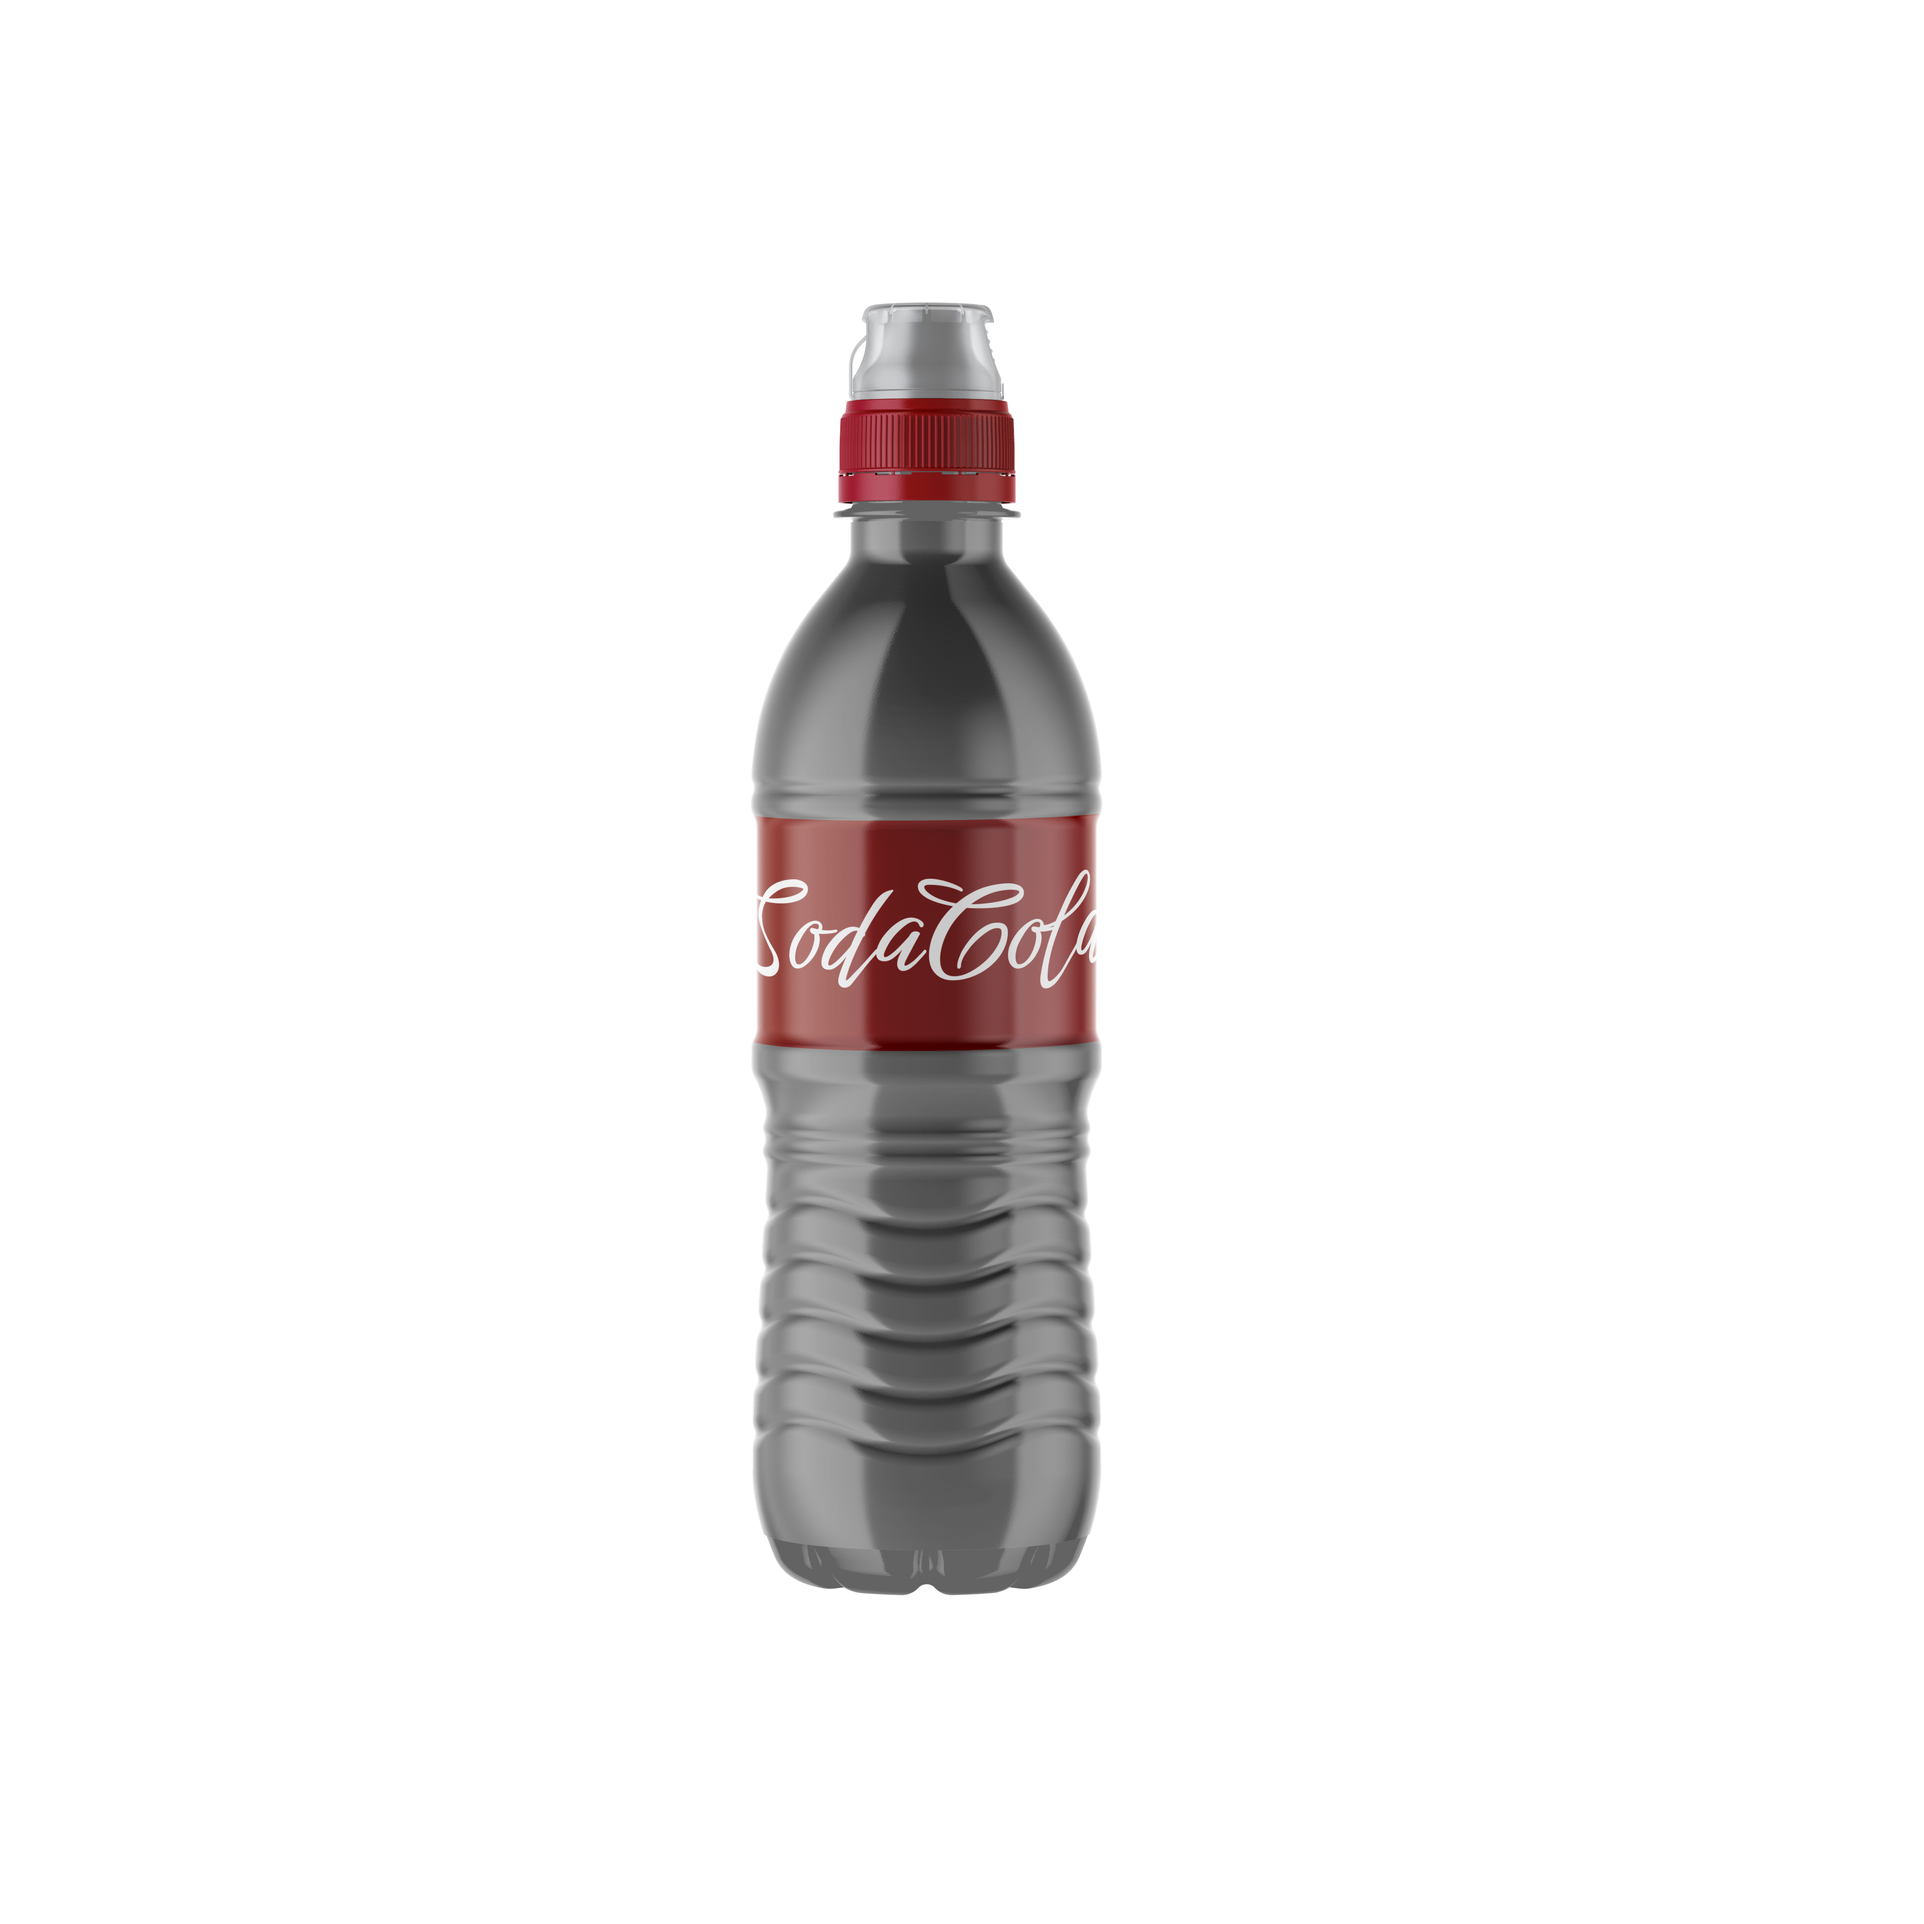
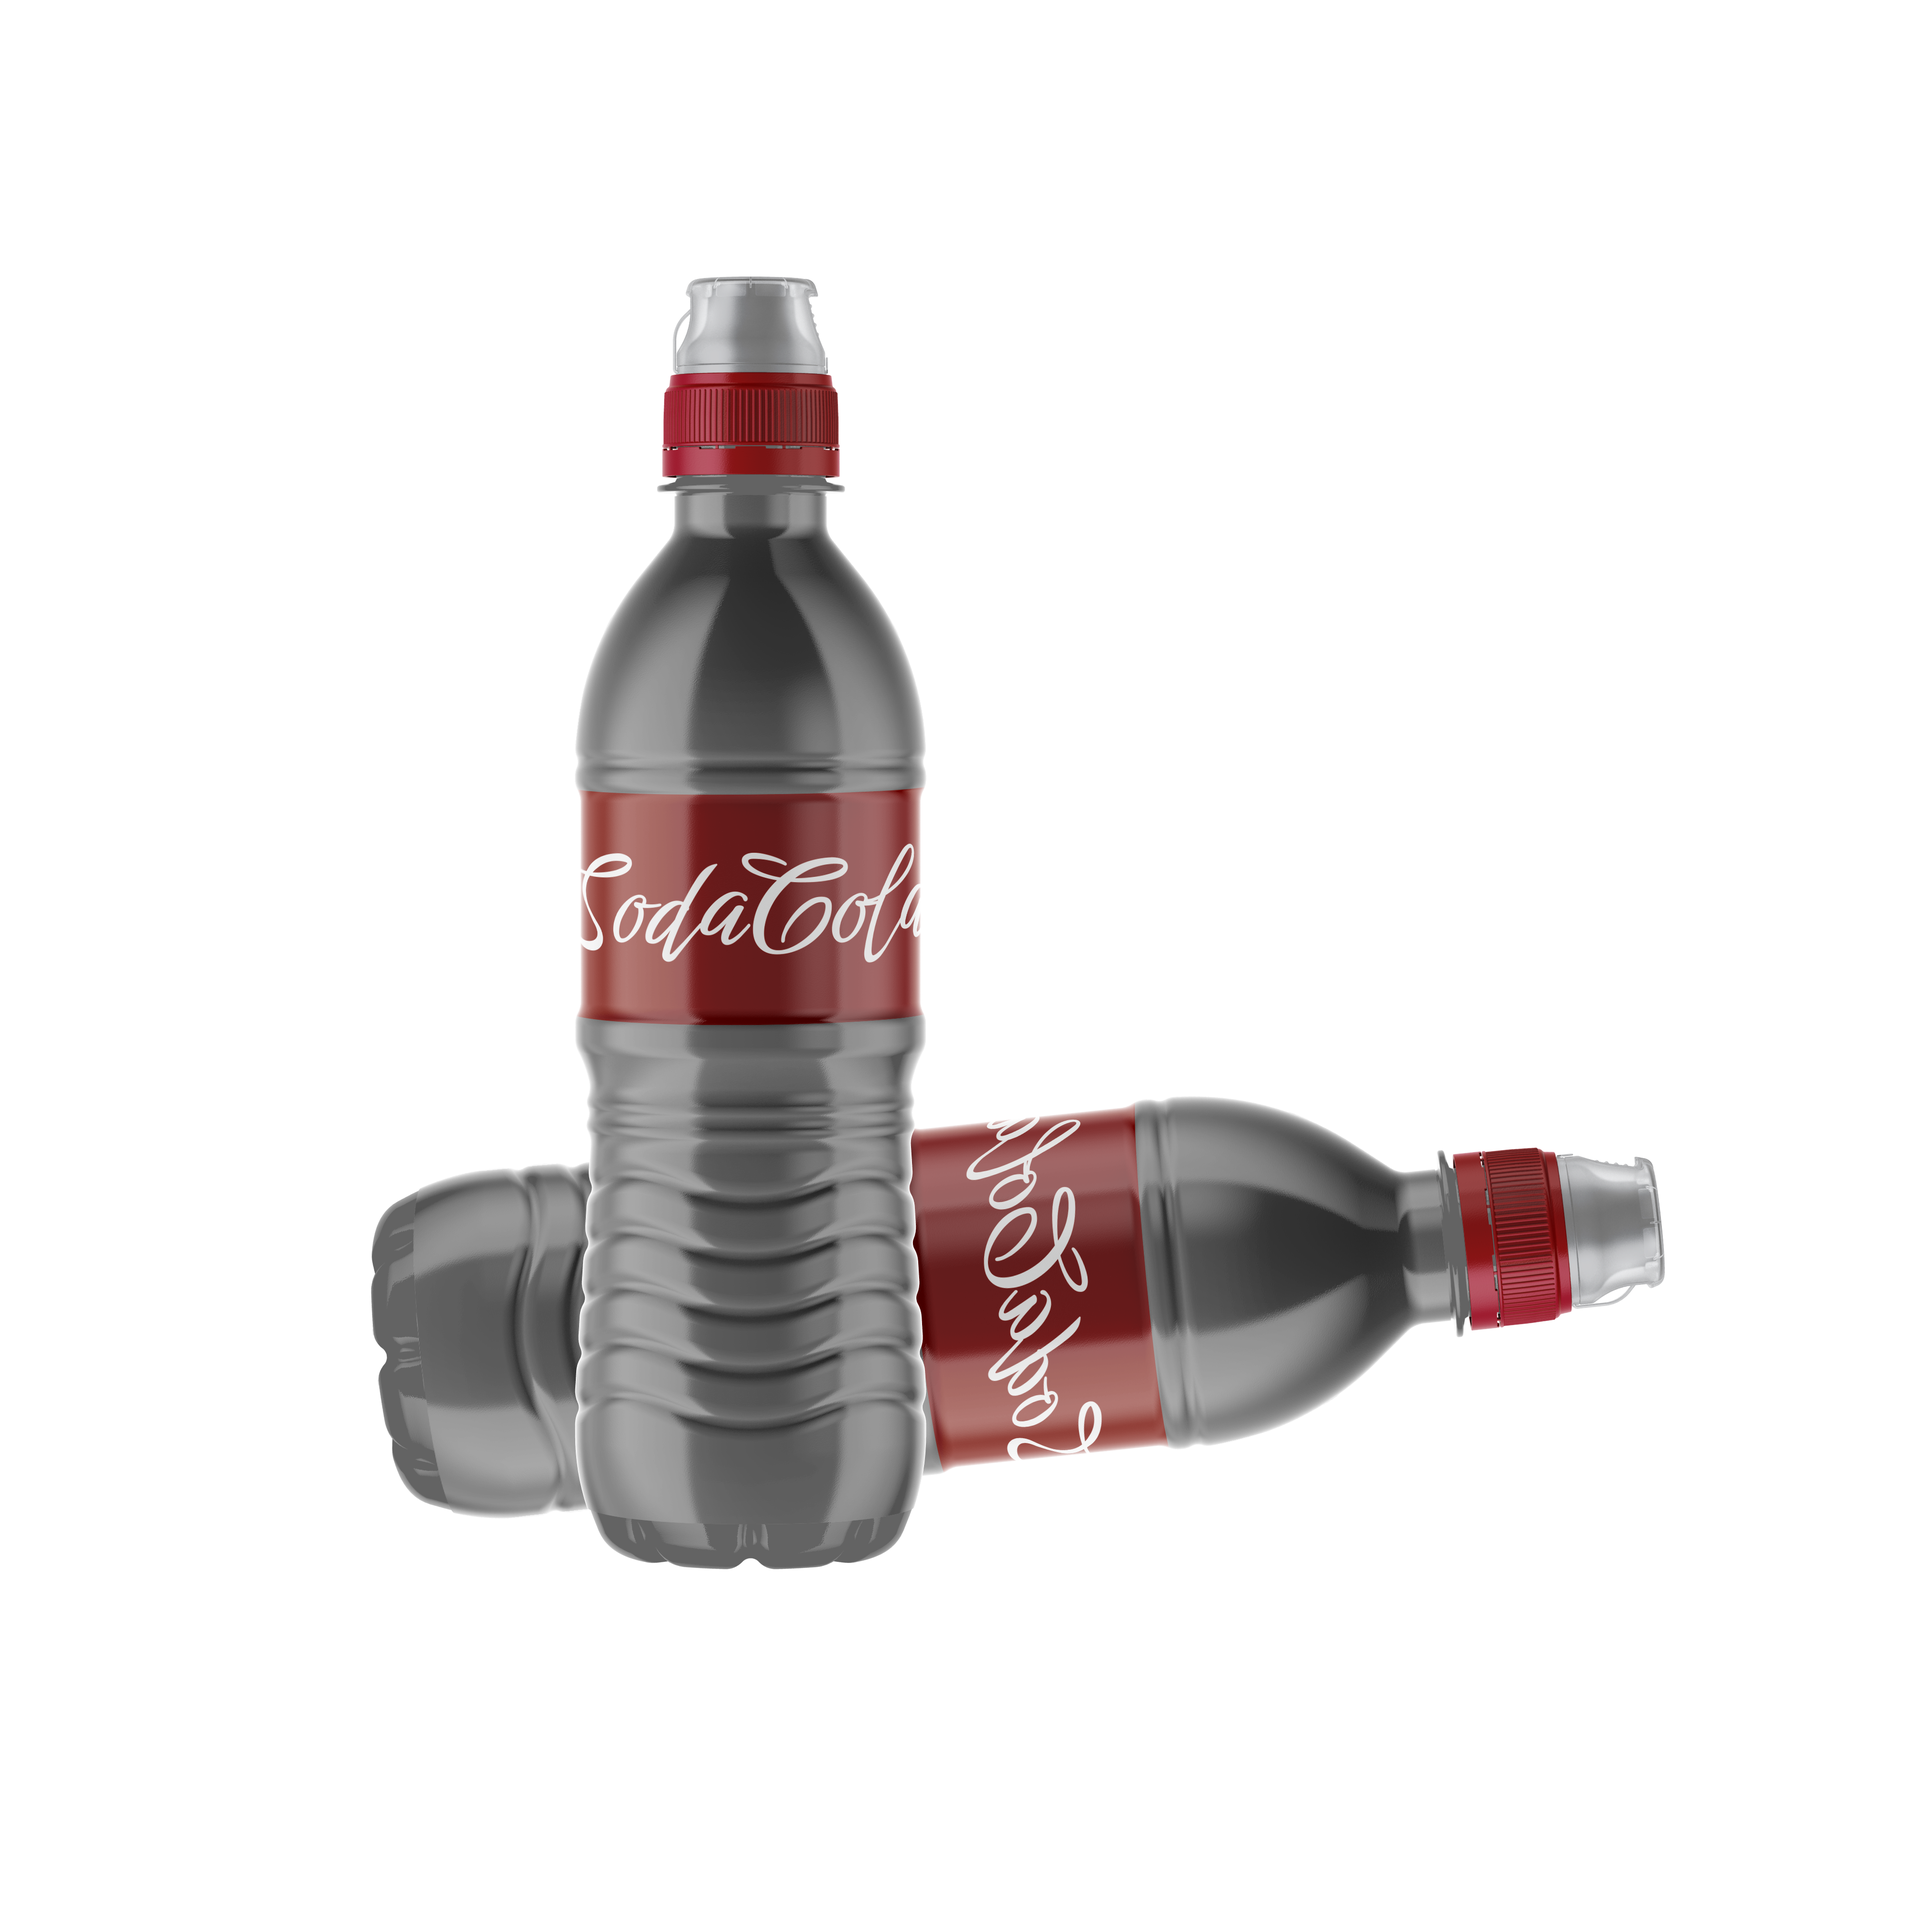
implemented imgs in productDisplay

Changed region(s): [[0.1875, 0.125, 0.875, 0.8438]]

diff --git a/src/components/productDisplayItem.vue b/src/components/productDisplayItem.vue
@@ -1,5 +1,10 @@
 <template>
   <div class="item">
+    <img
+      :src="getImgPath()"
+      :alt="name"
+      :class="{ right: isOdd(), left: !isOdd() }"
+    />
     <div class="info" :class="{ odd: isOdd() }">
       <div class="qntbox">
         <div class="qnt">
@@ -39,14 +44,18 @@ export default {
     isOdd: function() {
       return this.id % 2 !== 0;
     },
+    getImgPath: function() {
+      return require("../assets/" + this.name + ".png");
+    },
   },
 };
 </script>
 
 <style lang="scss" scoped>
 .item {
+  z-index: 0 !important;
   width: 100%;
-  padding-bottom: 40vh;
+  padding-bottom: 30vw;
   padding-top: 10vh;
   position: relative;
   .info {
@@ -70,6 +79,18 @@ export default {
   }
   p {
     color: white;
+  }
+  img {
+    position: absolute;
+    z-index: 1 !important;
+    width: 50vw !important;
+    top: -10vh;
+  }
+  .left {
+    left: 10vw;
+  }
+  .right {
+    right: 10vw;
   }
 }
 .odd {
